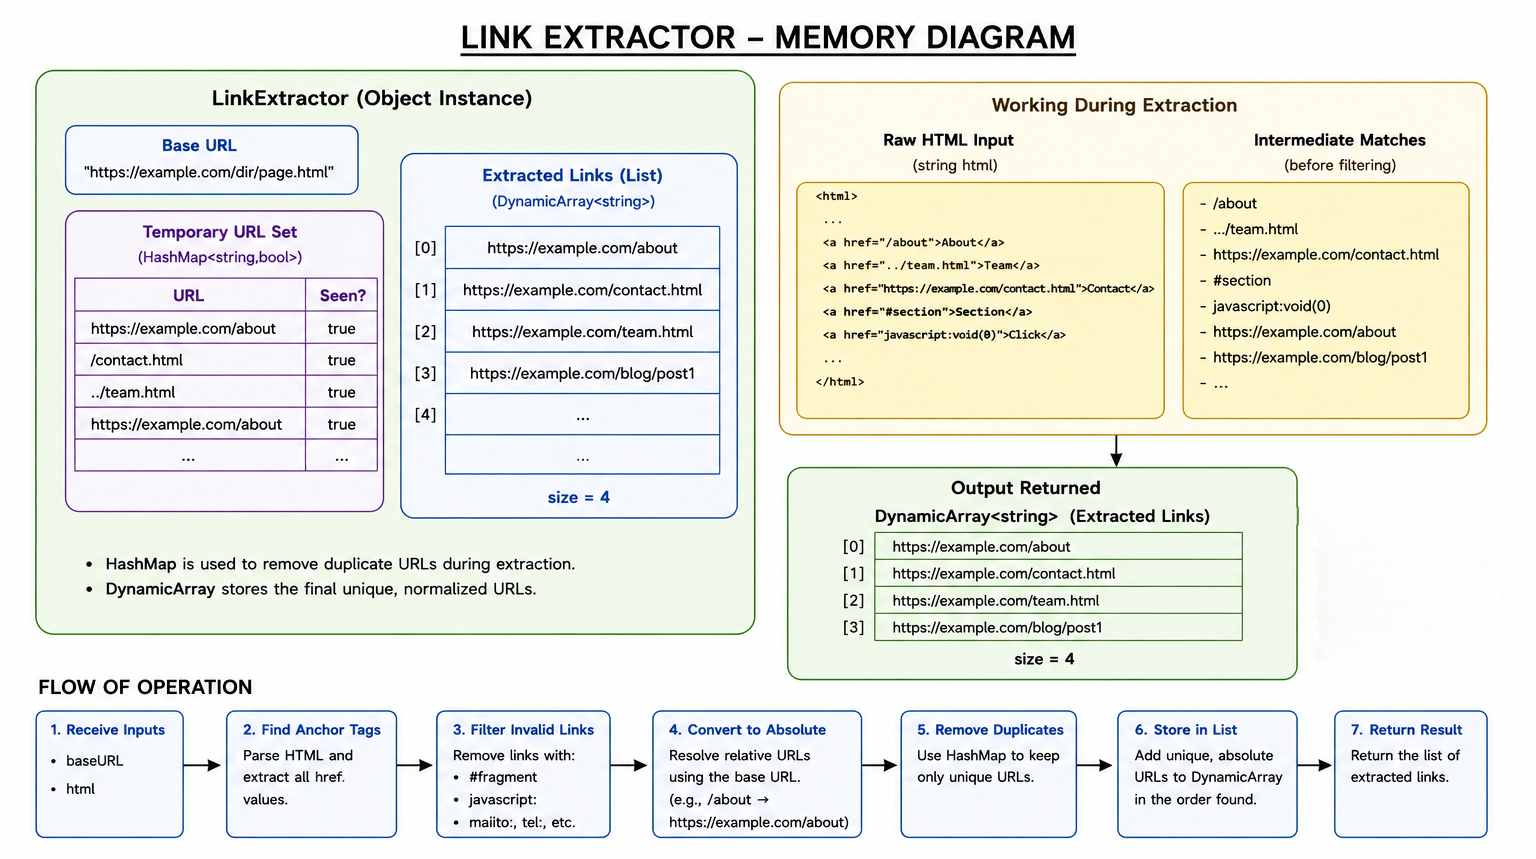
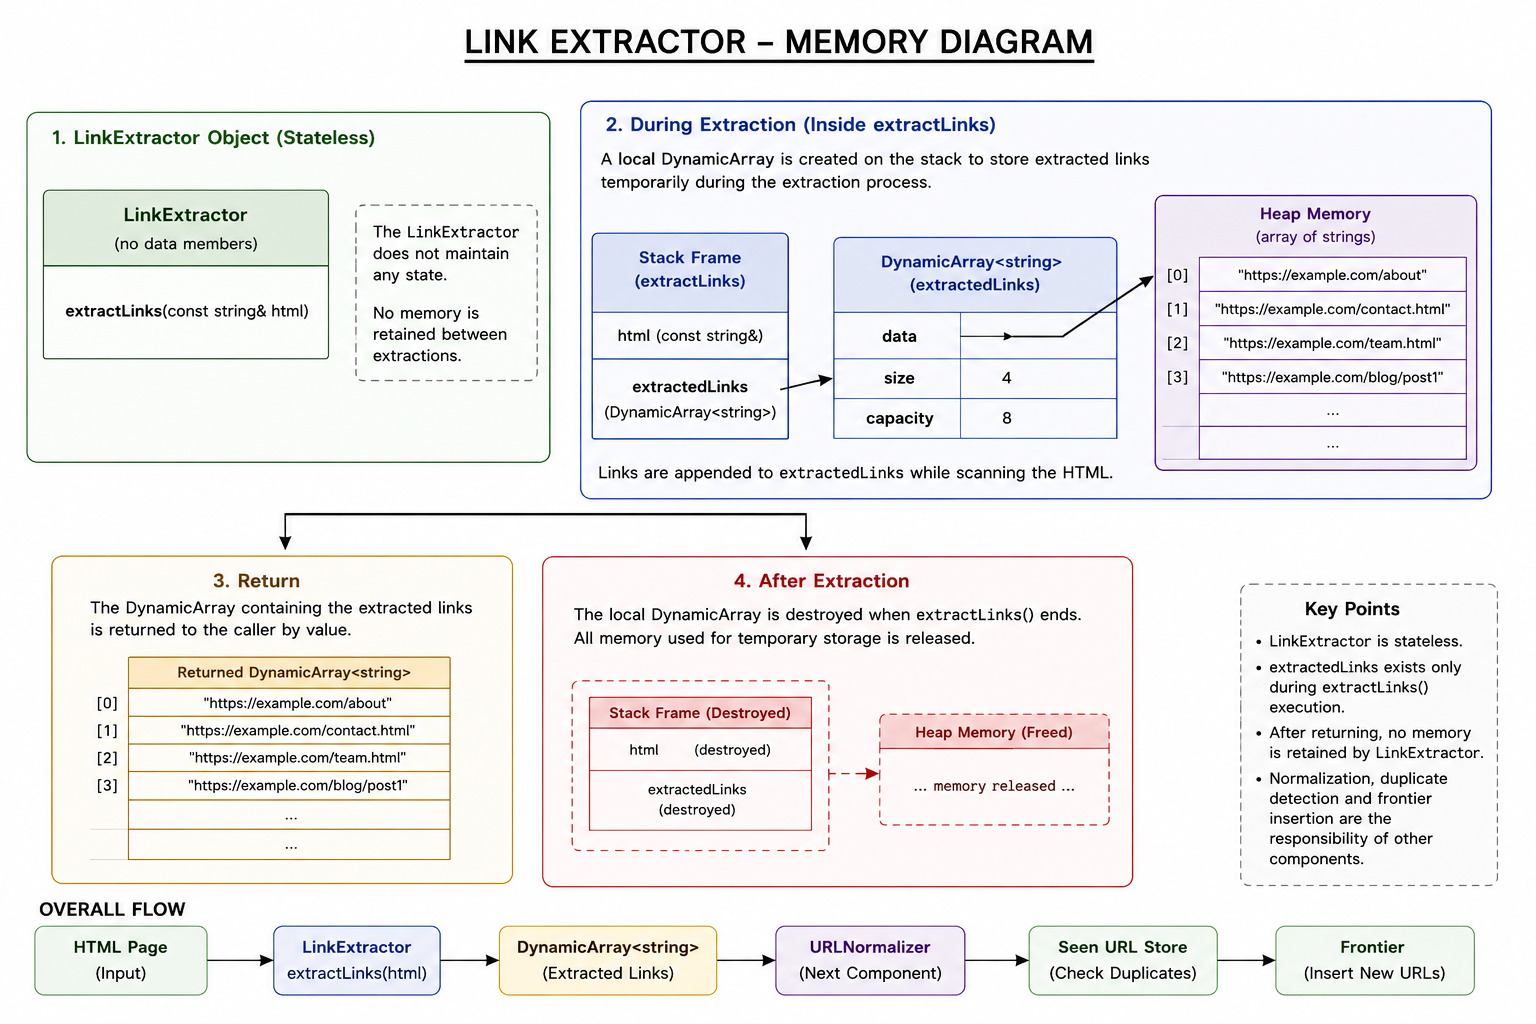
implemented link extractor (search of href anchor tag and extract link)

diff --git a/src/link_extractor/link_extractor.cpp b/src/link_extractor/link_extractor.cpp
@@ -1,0 +1,39 @@
+#include "../include/link_extractor.h"
+
+DynamicArray<std::string> LinkExtractor::extractLinks(const std::string& html){
+    DynamicArray<std::string> extractedLinks;
+    const std::string pattern = "href=";
+    std::size_t currentPosition = 0;
+    while (true){
+        std::size_t hrefPosition =
+            html.find(pattern, currentPosition);
+
+        if (hrefPosition == std::string::npos){
+            break;
+        }
+
+        std::size_t quotePosition =hrefPosition + pattern.size();
+
+        // Prevent out-of-bounds access
+        if (quotePosition >= html.size()){
+            break;
+        }
+
+        char quoteCharacter = html[quotePosition];
+        if (quoteCharacter != '"' &&quoteCharacter != '\''){
+            currentPosition = quotePosition + 1;
+            continue;
+        }
+        std::size_t closingQuote =html.find(quoteCharacter, quotePosition + 1);
+        if (closingQuote == std::string::npos){
+            break;
+        }
+        std::string extractedURL =html.substr(quotePosition + 1,closingQuote - quotePosition - 1);
+
+        if (!extractedURL.empty()){
+            extractedLinks.push(extractedURL);
+        }
+        currentPosition = closingQuote + 1;
+    }
+    return extractedLinks;
+}

diff --git a/include/link_extractor.h b/include/link_extractor.h
@@ -1,0 +1,14 @@
+#ifndef LINK_EXTRACTOR_H
+#define LINK_EXTRACTOR_H
+
+#include <string>
+
+#include "dynamic_array.h"
+
+class LinkExtractor
+{
+public:
+    DynamicArray <std::string> extractLinks(const std::string& html);
+};
+
+#endif

diff --git a/docs/design_proposal/crawler_dproposal.md b/docs/design_proposal/crawler_dproposal.md
@@ -306,7 +306,6 @@ Each insertion requires a lookup first, but the overhead is minimal due to hash-
 ---
 
 ### Page Storage
-### Page Storage
 
 #### Purpose
 
@@ -460,30 +459,36 @@ The crawler must update both the webpage file and the metadata file whenever a n
 
 
 ### Link Extractor
+
 #### Purpose
 The Link Extractor identifies and extracts hyperlinks from the HTML content of a downloaded webpage. After a webpage is fetched, its HTML is passed to the Link Extractor, which scans the document for hyperlink references and returns the extracted URLs.
+
 The extracted URLs are then forwarded to the URL Normalizer before being checked against the Seen URL Store and inserted into the Frontier.
-Since the number of hyperlinks in a webpage is unknown beforehand, the extracted URLs are stored using the custom `DynamicArray` developed in Project 01.
+
+Since the number of hyperlinks in a webpage is unknown beforehand, the extracted URLs are stored using the custom `DynamicArray` developed in Project 01. The `DynamicArray` exists only during the extraction process and is returned to the caller after extraction completes.
 
 ---
+
 #### Public API
+
 ```cpp
 class LinkExtractor{
 public:
     DynamicArray<std::string>
     extractLinks(const std::string& html);
-    int linkCount() const;
-    void clear();
 };
 ```
 ---
+
 #### Internal Representation
-The Link Extractor is a temporary processing component. During extraction, it stores the discovered hyperlinks in:
+The Link Extractor is a **stateless processing component**. It does not maintain any internal state between webpages.
+During the execution of `extractLinks()`, the discovered hyperlinks are temporarily stored in a local:
 ```cpp
 DynamicArray<std::string> extractedLinks;
 ```
 Each element represents one extracted hyperlink.
-The collection exists only during the extraction process and is cleared after the extracted URLs are returned.
+Once extraction is complete, the `DynamicArray` is returned to the caller, and no hyperlinks are retained by the Link Extractor.
+
 ---
 
 #### Memory Diagram
@@ -492,19 +497,18 @@ The collection exists only during the extraction process and is cleared after th
 ---
 
 #### Complexity Analysis
+
 | Method | Complexity | Explanation |
 |---------|------------|-------------|
 | `extractLinks()` | O(n) | Scans the HTML document once and extracts hyperlinks. |
-| `linkCount()` | O(1) | Returns the number of extracted hyperlinks. |
-| `clear()` | O(k) | Removes all extracted hyperlinks. |
-
 where
-- **n** is the length of the HTML document.
-- **k** is the number of extracted hyperlinks.
 
+- **n** is the length of the HTML document.
 ---
+
 #### Design Decisions
 ##### Decision 1: Use DynamicArray to Store Extracted Links
+
 **Decision Taken**
 The extracted hyperlinks are temporarily stored using the custom `DynamicArray`.
 
@@ -512,27 +516,30 @@ The extracted hyperlinks are temporarily stored using the custom `DynamicArray`.
 Use a `LinkedList`.
 
 **Reason for Acceptance / Rejection**
-Hyperlinks are generated sequentially while scanning the HTML document. A DynamicArray provides efficient append operations and simple sequential traversal before the URLs are normalized.
+Hyperlinks are generated sequentially while scanning the HTML document. A `DynamicArray` provides efficient append operations and simple sequential traversal before the URLs are normalized.
 
 **Trade-offs**
-Occasional resizing may introduce temporary overhead, but the DynamicArray provides better cache locality and simpler iteration than a linked list.
+Occasional resizing may introduce temporary overhead, but the `DynamicArray` provides better cache locality and simpler iteration than a linked list.
 
 ---
+
 ##### Decision 2: Keep the Link Extractor Stateless
 **Decision Taken**
-The Link Extractor stores hyperlinks only during extraction.
+The Link Extractor does not maintain any internal state. During `extractLinks()`, hyperlinks are stored only in a local `DynamicArray`, which is returned to the caller after extraction completes.
 
 **Alternative Considered**
-Maintain extracted hyperlinks across multiple webpages.
+Maintain extracted hyperlinks as member data across multiple webpages.
 
 **Reason for Acceptance / Rejection**
-Each webpage is processed independently. Retaining hyperlinks after extraction provides no benefit and unnecessarily increases memory usage.
+Each webpage is processed independently. Retaining hyperlinks after extraction provides no benefit, increases memory usage, and unnecessarily couples one extraction with the next.
 
 **Trade-offs**
-Extracted hyperlinks are unavailable after extraction unless another component stores them, which is acceptable because permanent storage is not the Link Extractor's responsibility.
+The Link Extractor cannot provide access to previously extracted hyperlinks after the function returns. This is acceptable because permanent storage is the responsibility of other crawler components.
 
 ---
+
 ##### Decision 3: Separate Link Extraction from URL Normalization
+
 **Decision Taken**
 The Link Extractor returns hyperlinks exactly as they appear in the HTML document.
 
@@ -544,9 +551,11 @@ Keeping extraction and normalization separate makes each component easier to und
 
 **Trade-offs**
 An additional processing step is introduced, but the architecture remains modular and easier to extend.
+
 ---
 
 ##### Decision 4: Restrict the Link Extractor to Hyperlink Extraction
+
 **Decision Taken**
 The Link Extractor is responsible only for extracting hyperlinks.
 